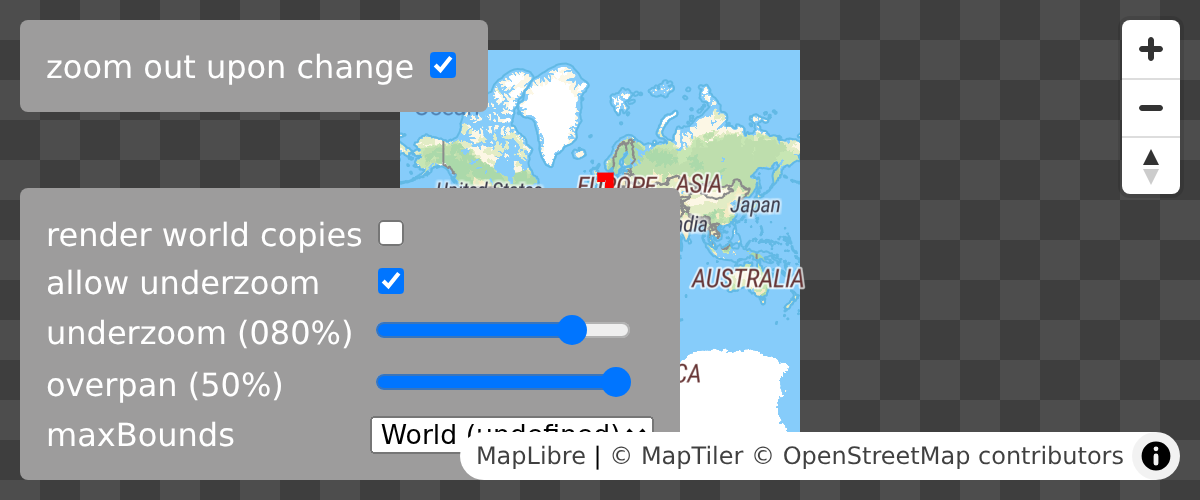
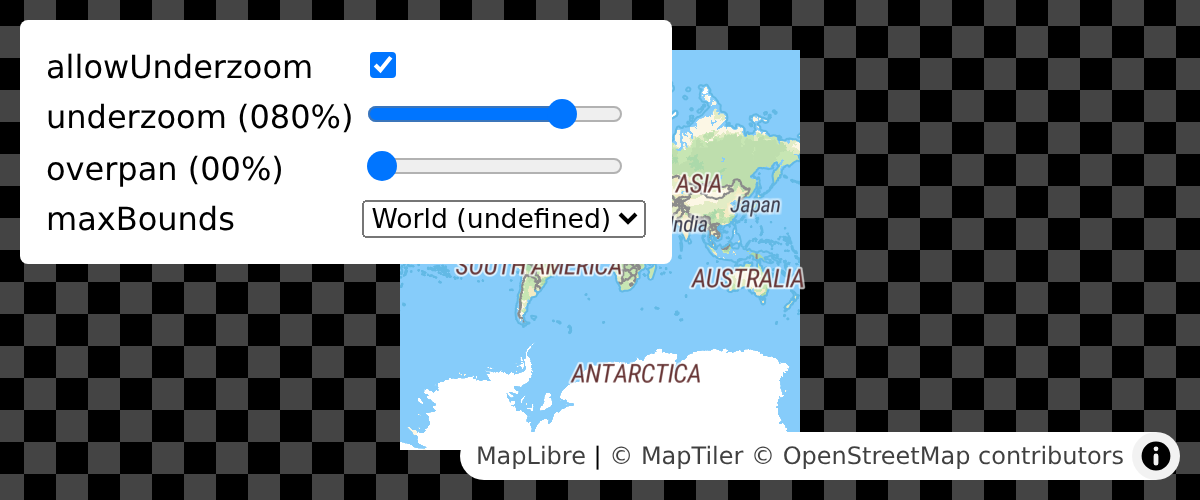
Underzoom: Simplify example, update docs image

diff --git a/test/examples/underzoom.html b/test/examples/underzoom.html
@@ -1,123 +1,93 @@
 <!DOCTYPE html>
 <html lang='en'>
 <head>
-    <title>Underzoom</title>
-    <meta property='og:description' content='Adjust underzoom parameters on a MapLibre GL JS map.' />
+    <title>Allow underzoom of single-copy world</title>
+    <meta property='og:description' content='Allow a map to be zoomed out to show its entire bounded area with setAllowUnderzoom.' />
     <meta charset='utf-8'>
     <meta name='viewport' content='width=device-width, initial-scale=1'>
     <link rel='stylesheet' href='../../dist/maplibre-gl.css' />
     <script src='../../dist/maplibre-gl-dev.js'></script>
     <style>
-        :root {
-            --checker-dark: #3e3e3e;
-            --checker-light: #4d4d4d;
-            --checker-size: 40px;
-        }
         body {
             margin: 0;
             padding: 0;
-            background-color: var(--checker-light);
-            background-image: linear-gradient(45deg, var(--checker-dark) 25%, transparent 25%), linear-gradient(-45deg, var(--checker-dark) 25%, transparent 25%), linear-gradient(45deg, transparent 75%, var(--checker-dark) 75%), linear-gradient(-45deg, transparent 75%, var(--checker-dark) 75%);
-            background-size: var(--checker-size) var(--checker-size);
-            background-position: 0 0, 0 20px, 20px -20px, -20px 0px;
+            background: repeating-conic-gradient(#000 0 25%, #444 0 50%) 50% / 32px 32px;
         }
         html, body, #map { height: 100%; }
         .listing-group {
             font-family: 'Helvetica Neue', Arial, Helvetica, sans-serif;
             position: absolute;
-            color: #fff;
-            background-color: rgb(157, 156, 156);
-            padding: 10px;
-            border-radius: 4px;
-        }
-        #listing-group-top-left {
             top: 10px;
             left: 10px;
-        }
-        #listing-group-bottom-left {
-            bottom: 10px;
-            left: 10px;
+            background-color: #fff;
+            padding: 10px;
+            border-radius: 4px;
         }
     </style>
 </head>
 <body>
-
 <div id='map'></div>
-
 <table id='listing-group-bottom-left' class='listing-group'>
-    <tr><td><label for='render-world-copies'>render world copies</label></td><td><input type='checkbox' id='render-world-copies' unchecked/></td></tr>
-    <tr><td><label for='allow-underzoom'>allow underzoom</label></td><td><input type='checkbox' id='allow-underzoom' checked/></td></tr>
+    <tr><td><label for='allow-underzoom'>allowUnderzoom</label></td><td><input type='checkbox' id='allow-underzoom' checked/></td></tr>
     <tr><td><label for='underzoom-slider' id='underzoom-label'>underzoom</label></td><td><input type='range' id='underzoom-slider' min='0' max='100' step='10' value='80' /></td></tr>
-    <tr><td><label for='overpan-slider' id='overpan-label'>overpan ratio</label></td><td><input type='range' id='overpan-slider' min='0' max='50' step='10' value='50' /></td></tr>
-    <tr>
-        <td><label for='max-bounds-select'>maxBounds</label></td>
-        <td>
-            <select name="max-bounds-select" id="max-bounds-select">
-                <option value="undefined">World (undefined)</option>
-                <option value="wide">NYC (wide)</option>
-                <option value="tall">Amsterdam (tall)</option>
-            </select>
-        </td>
+    <tr><td><label for='overpan-slider' id='overpan-label'>overpan</label></td><td><input type='range' id='overpan-slider' min='0' max='50' step='10' value='0' /></td></tr>
+    <tr><td><label for='max-bounds-select'>maxBounds</label></td>
+        <td><select name="max-bounds-select" id="max-bounds-select">
+            <option value="undefined">World (undefined)</option>
+            <option value="wide">NYC (wide)</option>
+            <option value="tall">Amsterdam (tall)</option>
+        </select></td>
     </tr>
 </table>
 
-<table id='listing-group-top-left' class='listing-group'>
-    <tr><td><label for='zoom-out'>zoom out upon change</label></td><td><input type='checkbox' id='zoom-out' checked/></td></tr>
-</table>
-
 <script>
+    
+    const map = new maplibregl.Map({
+        container: 'map',
+        renderWorldCopies: false,
+        allowUnderzoom: true,
+        underzoom: 80,
+        overpan: 0,
+        style: 'https://api.maptiler.com/maps/streets/style.json?key=get_your_own_OpIi9ZULNHzrESv6T2vL'
+    });
+    
     // New York, New York
     const w_north = 40.78;
     const w_east = -73.81;
     const w_south = 40.68;
     const w_west = -74.15;
-    const w_bounds = [
-        [w_west, w_south], // Southwest coordinates
-        [w_east, w_north] // Northeast coordinates
-    ];
+    const w_bounds = [[w_west, w_south], [w_east, w_north]];
+    const w_center = [(w_west + w_east) / 2, (w_north + w_south) / 2]
 
     // Amsterdam, Netherlands
     const t_north = 52.3676 + 0.5;
     const t_east = 4.9041 + 0.25;
     const t_south = 52.3676 - 0.5;
     const t_west = 4.9041 - 0.25;
-    const t_bounds = [
-        [t_west, t_south], // Southwest coordinates
-        [t_east, t_north] // Northeast coordinates
-    ];
-
-    const w_center = [(w_west + w_east) / 2, (w_north + w_south) / 2]
+    const t_bounds = [[t_west, t_south], [t_east, t_north]];
     const t_center = [(t_west + t_east) / 2, (t_north + t_south) / 2]
 
     const bounds_options = {
         "undefined": {
-            "bounds": undefined,
-            "center": [0, 0]
+            "bounds": undefined, "center": [0, 0]
         },
         "wide": {
-            "bounds": w_bounds,
-            "center": w_center
+            "bounds": w_bounds, "center": w_center
         },
         "tall": {
-            "bounds": t_bounds,
-            "center": t_center
+            "bounds": t_bounds, "center": t_center
         },
     }
 
     const zeroPad = (num, places) => String(num).padStart(places, '0');
     function setUnderzoomFromUi() {
-        map.setRenderWorldCopies(
-            document.getElementById('render-world-copies').checked
-        );
         map.setAllowUnderzoom(
             document.getElementById('allow-underzoom').checked
         );
         const underzoom = parseFloat(document.getElementById('underzoom-slider').value);
         map.setUnderzoom(underzoom);
         document.getElementById('underzoom-label').textContent = `underzoom (${zeroPad(underzoom, 3)}%)`;
-        if (document.getElementById('zoom-out').checked) {
-            map.setZoom(-Infinity);
-        }
+        map.setZoom(-Infinity);
     }
     function setOverpanFromUi() {
         const overpan = parseFloat(document.getElementById('overpan-slider').value);
@@ -128,27 +98,8 @@
         const option = document.getElementById('max-bounds-select').value;
         map.setMaxBounds(bounds_options[option].bounds);
         map.setCenter(bounds_options[option].center);
-        if (document.getElementById('zoom-out').checked) {
-            map.setZoom(-Infinity);
-        }
+        map.setZoom(-Infinity);
     }
-
-    const map = new maplibregl.Map({
-        container: 'map',
-        renderWorldCopies: false,
-        allowUnderzoom: true,
-        style:
-            'https://api.maptiler.com/maps/streets/style.json?key=get_your_own_OpIi9ZULNHzrESv6T2vL',
-    });
-
-    map.addControl(
-        new maplibregl.NavigationControl({
-            visualizePitch: true,
-            showZoom: true,
-            showCompass: true
-        }),
-        'top-right'
-    );
 
     map.on('load', () => {
         map.addSource('bounds-wide', {
@@ -205,7 +156,6 @@
                 'line-offset': -2,
             }
         });
-        document.getElementById('render-world-copies').addEventListener('change', setUnderzoomFromUi);
         document.getElementById('allow-underzoom').addEventListener('change', setUnderzoomFromUi);
         document.getElementById('underzoom-slider').addEventListener('input', setUnderzoomFromUi);
         document.getElementById('overpan-slider').addEventListener('input', setOverpanFromUi);
